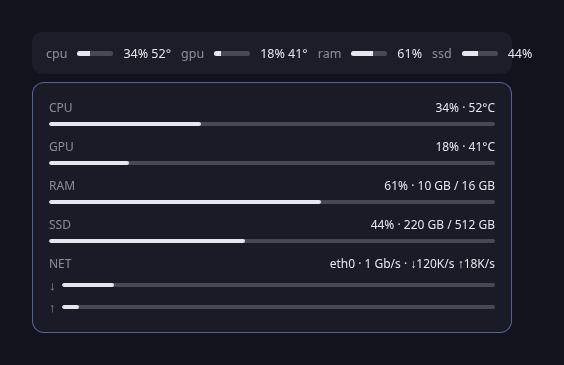
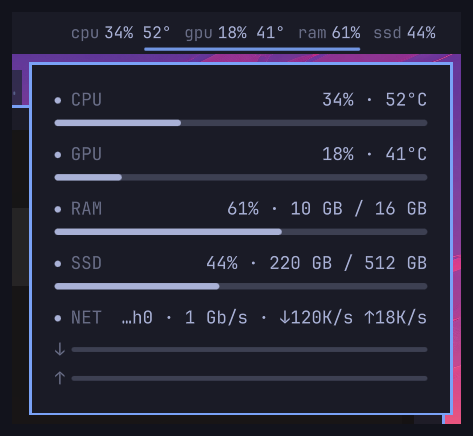
Demo-mode screenshots from the real widgets.
Collectors honor a local DEMO file so README shots use mock data
on the actual QML UI and icons. Extra views captured where the
panel has more than one screen.

Changed region(s): [[0.0, 0.0603, 0.9767, 0.9945]]

diff --git a/BarWidget.qml b/BarWidget.qml
@@ -107,6 +107,7 @@ BarWidget {
     if (d.txBytesPerSec !== undefined) txRate = d.txBytesPerSec || 0
     if (d.gpuPct !== undefined) gpuPct = d.gpuPct === null ? -1 : d.gpuPct
     if (d.gpuTempC !== undefined && d.gpuTempC !== null) gpuTempC = d.gpuTempC
+    if (d.demo) { demoLock = true; cardOpen = true }
   }
 
   function refresh() {
@@ -347,6 +348,7 @@ BarWidget {
   // Hover dropdown -----------------------------------------------------------
 
   property bool cardOpen: false
+  property bool demoLock: false
 
   // Dwell before opening so a passing cursor doesn't flash the card; short
   // grace before closing so micro-gaps between widget and card don't snap it.
@@ -363,7 +365,7 @@ BarWidget {
     interval: 150
     repeat: false
     running: !button.tooltipHovered && !statsCard.containsMouse && root.cardOpen
-    onTriggered: if (!button.tooltipHovered && !statsCard.containsMouse) root.cardOpen = false
+    onTriggered: if (!root.demoLock && !button.tooltipHovered && !statsCard.containsMouse) root.cardOpen = false
   }
 
   component StatsRow : Item {

diff --git a/ai_usage.py b/ai_usage.py
@@ -969,7 +969,47 @@ def _discover(home: Path) -> list[Any]:
     return discover_local_accounts(home=home)
 
 
+def demo_view() -> str:
+    flag = Path(__file__).resolve().parent / "DEMO"
+    try:
+        if flag.is_file():
+            return flag.read_text(encoding="utf-8").strip() or "claude"
+    except OSError:
+        pass
+    return ""
+
+
+def demo_providers() -> list[dict[str, Any]]:
+    def rec(pid, name, session, weekly, tokens, sessions, extra=None):
+        row = {
+            "schemaVersion": 2, "id": pid, "icon": provider_icon(pid), "name": name,
+            "tierLabel": "Pro", "statusText": "Live quota", "authHelpText": "",
+            "ready": True, "status": "ok", "updatedAt": "",
+            "limits": [
+                {"kind": "session", "label": "Session (5-hour)", "percent": session, "resetsAt": "2026-01-01T03:12:00+00:00"},
+                {"kind": "weekly", "label": "Weekly", "percent": weekly, "resetsAt": "2026-01-05T00:00:00+00:00"},
+            ],
+            "today": {"prompts": 12, "sessions": sessions, "tokens": tokens},
+            "recentDays": [], "modelUsage": {}, "balance": extra,
+            "source": {"local": True, "authoritative": True},
+        }
+        return row
+
+    return [
+        rec("codex", "Codex", 0.32, 0.48, 800000, 3),
+        rec("claude", "Claude", 0.18, 0.41, 1200000, 4),
+        rec("zai", "Z.ai / GLM", 0.41, 0.22, 410000, 2),
+        rec("grok", "Grok", 0.07, 0.19, 220000, 2),
+        rec("openrouter", "OpenRouter", 0.22, 0.35, 90000, 1, {"usageWeekly": 4.2, "usageMonthly": 12.5, "limit": 20, "remaining": 7.5}),
+        rec("cursor", "Cursor", 0.55, 0.61, 1500000, 6),
+    ]
+
+
 def main() -> int:
+    view = demo_view()
+    if view:
+        print(json.dumps({"demo": True, "demoView": view, "providers": demo_providers()}))
+        return 0
     print(json.dumps({"providers": collect_records()}))
     return 0
 

diff --git a/stats-collect.py b/stats-collect.py
@@ -179,10 +179,35 @@ SECTIONS = {
 }
 
 
+def demo_view() -> str:
+    flag = os.path.join(os.path.dirname(os.path.abspath(__file__)), "DEMO")
+    try:
+        if os.path.isfile(flag):
+            text = open(flag, encoding="utf-8").read().strip()
+            return text or "default"
+    except OSError:
+        pass
+    return ""
+
+
+def emit_demo(section: str) -> None:
+    payloads = {
+        "fast": {"demo": True, "cpu": 34, "memPct": 61, "memUsedGB": 10.0, "memTotalGB": 16.0, "iface": "eth0", "rxBytesPerSec": 122880, "txBytesPerSec": 18432},
+        "temp": {"demo": True, "tempC": 52},
+        "disk": {"demo": True, "diskPct": 44, "diskUsedGB": 220.0, "diskTotalGB": 512.0},
+        "net": {"demo": True, "iface": "eth0", "mbps": 1000},
+        "gpu": {"demo": True, "gpuPct": 18, "gpuTempC": 41},
+    }
+    emit(payloads[section])
+
+
 def main():
     if len(sys.argv) != 2 or sys.argv[1] not in SECTIONS:
         print(f"usage: {sys.argv[0]} <{'|'.join(SECTIONS)}>", file=sys.stderr)
         return 2
+    if demo_view() and sys.argv[1] in ("fast", "temp", "disk", "net", "gpu"):
+        emit_demo(sys.argv[1])
+        return 0
     try:
         SECTIONS[sys.argv[1]]()
     except Exception as exc:  # a dead widget section must never hang the bar
